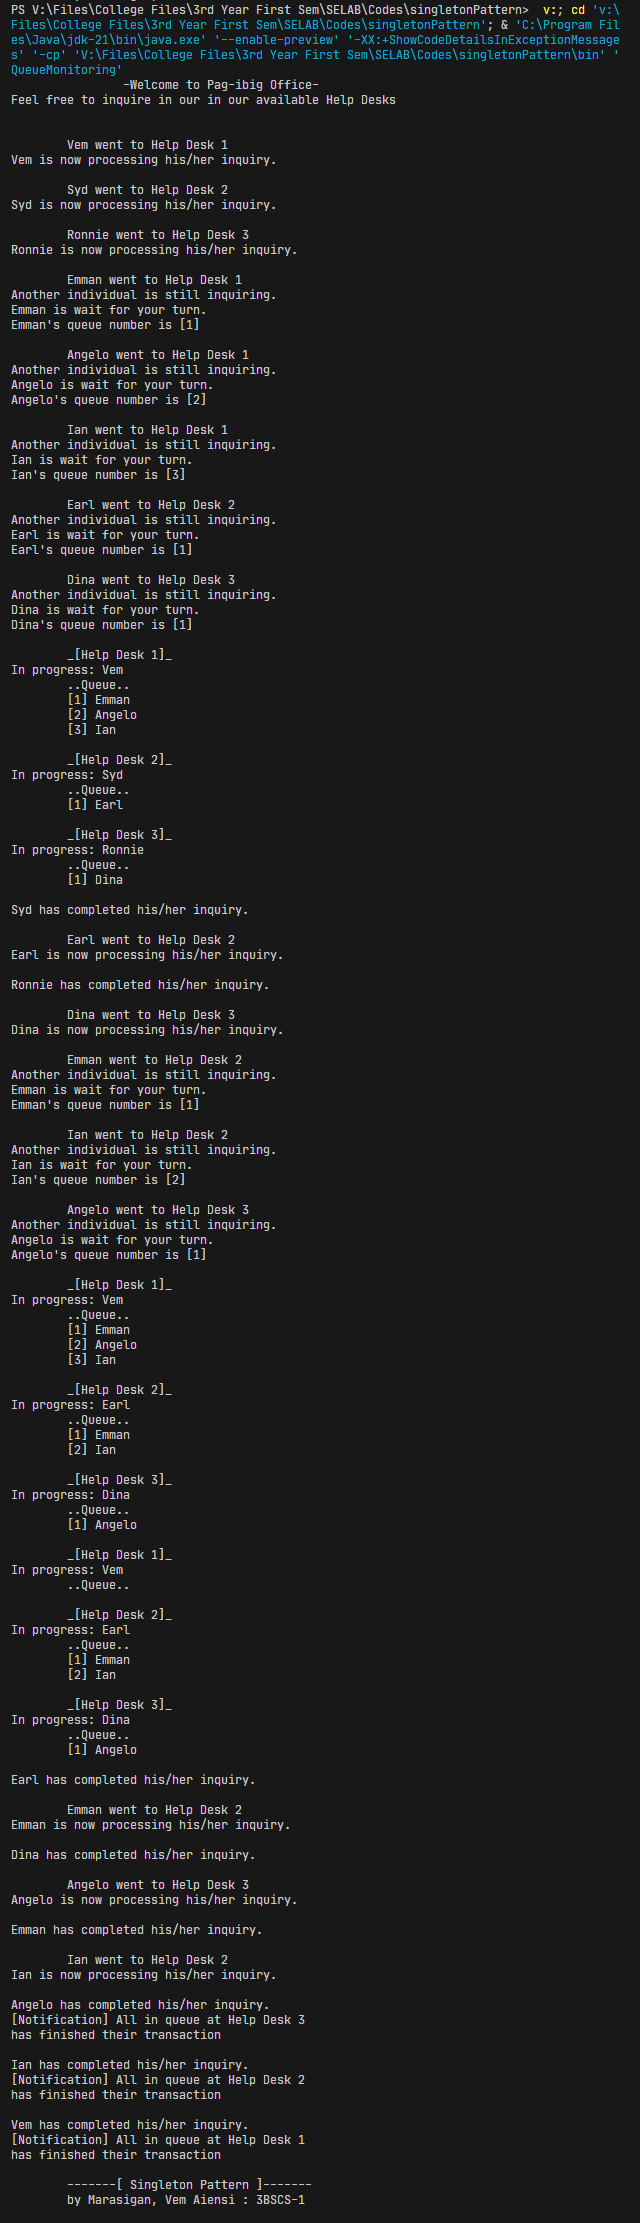
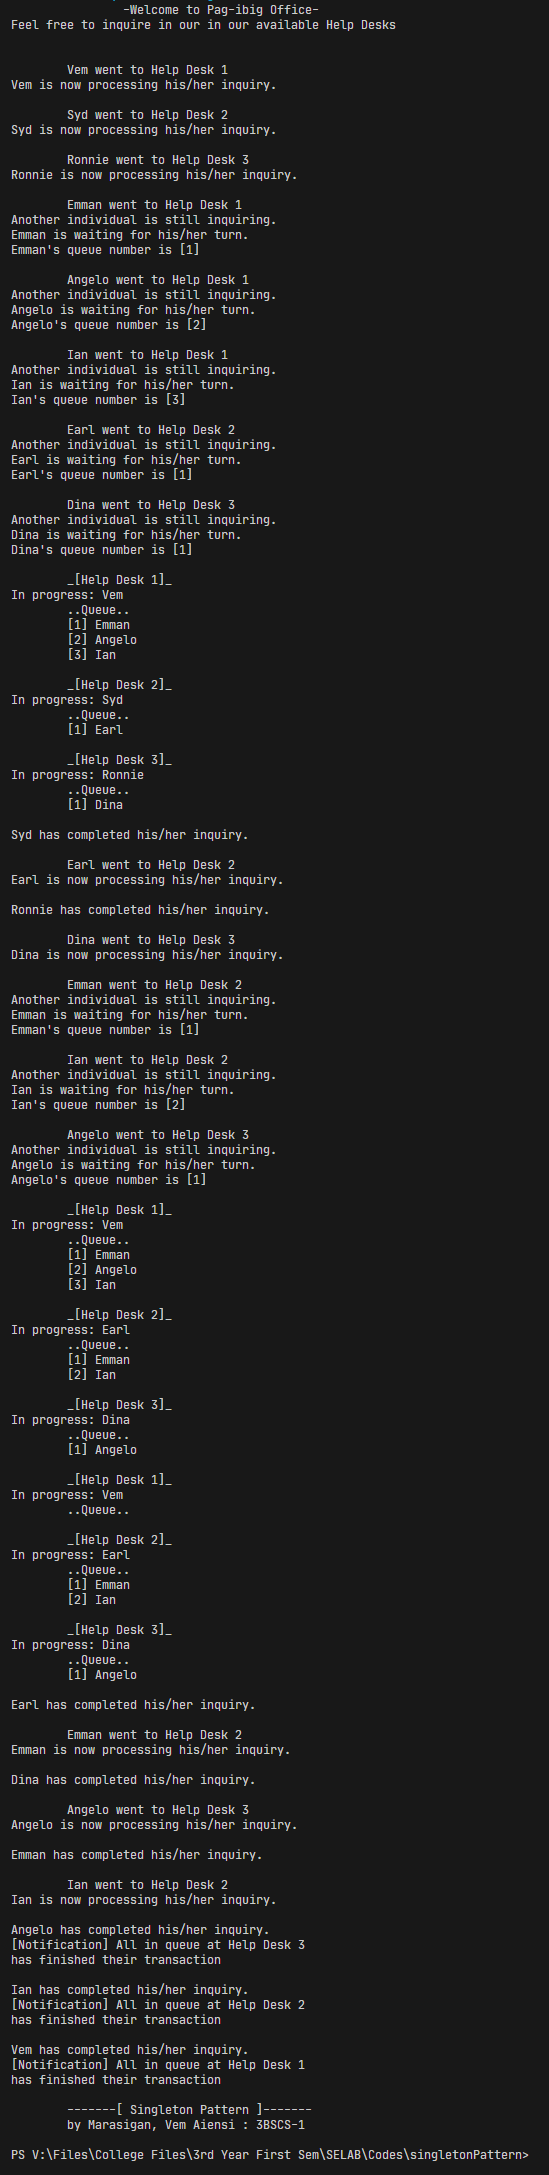
Add files via upload

Changed region(s): [[0.0, 0.0, 0.9599, 1.0]]

diff --git a/singletonPattern/singletonPattern/src/HelpDesk.java b/singletonPattern/singletonPattern/src/HelpDesk.java
@@ -32,7 +32,7 @@ public class HelpDesk {
             System.out.println(this.individual.getName() + " is now processing his/her inquiry.");
         }
         else{
-            System.out.println("Another individual is still inquiring.\n"+ individual.getName() +" is wait for your turn.");          
+            System.out.println("Another individual is still inquiring.\n"+ individual.getName() +" is waiting for his/her turn.");          
             enQueue(individual);
             System.out.println(individual.getName() + "'s queue number is [" + queue.size() + "]");
         }
